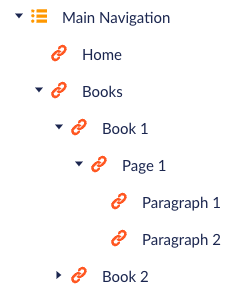
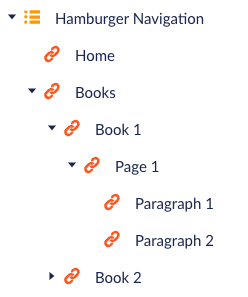
Fine-tuned terminology and updated step 3

diff --git a/docs/tutorials/multilevel-navigation/3-going-further.md b/docs/tutorials/multilevel-navigation/3-going-further.md
@@ -1,11 +1,11 @@
 ---
 sidebar_position: 2
-title: 3. Recursive
+title: 3. Going further
 ---
 
-# Recursive
+# Going further: Hamburger navigation
 
-If you have a more than one level of items, the schema will cover that as well. E.g. if you have something like this:
+If you have a more than one level of items, the schema will cover that as well. E.g. if you need to create a hamburger navigation with deeper levels:
 
 ![Create source Enterspeed](/img/docs/examples/multilevel-navigation/cms-structure-multiple.png)
 

diff --git a/docs/tutorials/multilevel-navigation/1-getting-started.md b/docs/tutorials/multilevel-navigation/1-getting-started.md
@@ -33,7 +33,7 @@ The output like this:
 
 ![Create source Enterspeed](/img/docs/examples/multilevel-navigation/output-example.png)
 
-And finally the data we are working with:
+And finally the (simplified) data we are working with:
 ```json
 {
 	"id": "1",
@@ -88,7 +88,7 @@ And finally the data we are working with:
 }
 ```
 
-This is what the data will look like when ingested into Enterspeed:
+This is what a single data entity will look like when ingested into Enterspeed:
 
 ```json
 {
